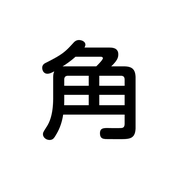
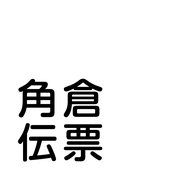
ホーム画面のアイコンを「角倉伝票」の文字アイコンに変更
Claude-Session: https://claude.ai/code/session_01XLZThuLduKYH1RYUTyRGq7

Changed region(s): [[0.0833, 0.2222, 0.7778, 0.9167]]

diff --git a/index.html b/index.html
@@ -2,13 +2,14 @@
 <html lang="ja">
   <head>
     <meta charset="UTF-8" />
-    <link rel="icon" type="image/svg+xml" href="/favicon.svg" />
+    <link rel="icon" type="image/png" href="/icon-192.png?v=2" />
     <meta name="viewport" content="width=device-width, initial-scale=1.0, maximum-scale=1.0, user-scalable=no" />
     <title>角倉伝票</title>
 
     <!-- ホーム画面に追加（PWA）対応: kento指示 2026-09-21。アプリ名は「角倉伝票」。 -->
     <link rel="manifest" href="/manifest.webmanifest" />
-    <link rel="apple-touch-icon" href="/apple-touch-icon.png" />
+    <!-- 2026-10-02: アイコンを「角倉伝票」の文字アイコンに変更（kento指示）。?v=2 はiPhoneの古いアイコンのキャッシュ対策 -->
+    <link rel="apple-touch-icon" sizes="180x180" href="/apple-touch-icon.png?v=2" />
     <meta name="theme-color" content="#1a1a1a" />
     <meta name="apple-mobile-web-app-capable" content="yes" />
     <meta name="mobile-web-app-capable" content="yes" />
